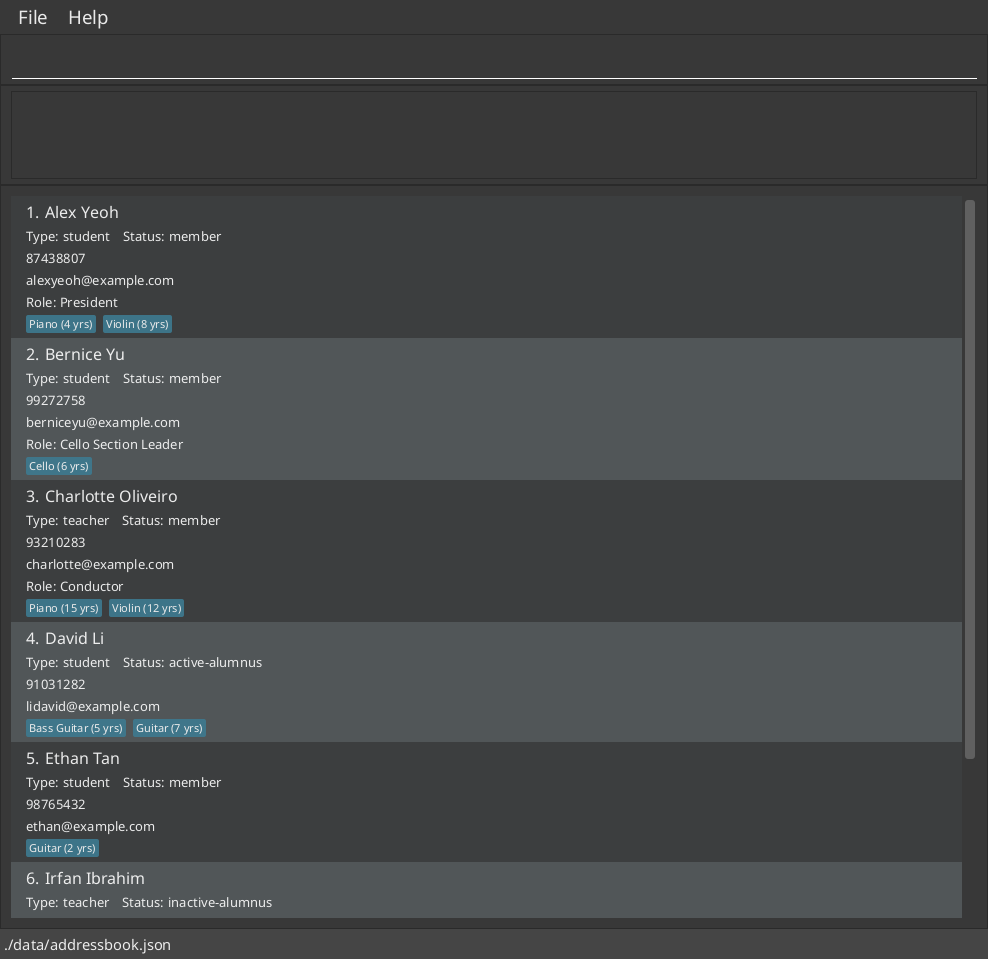
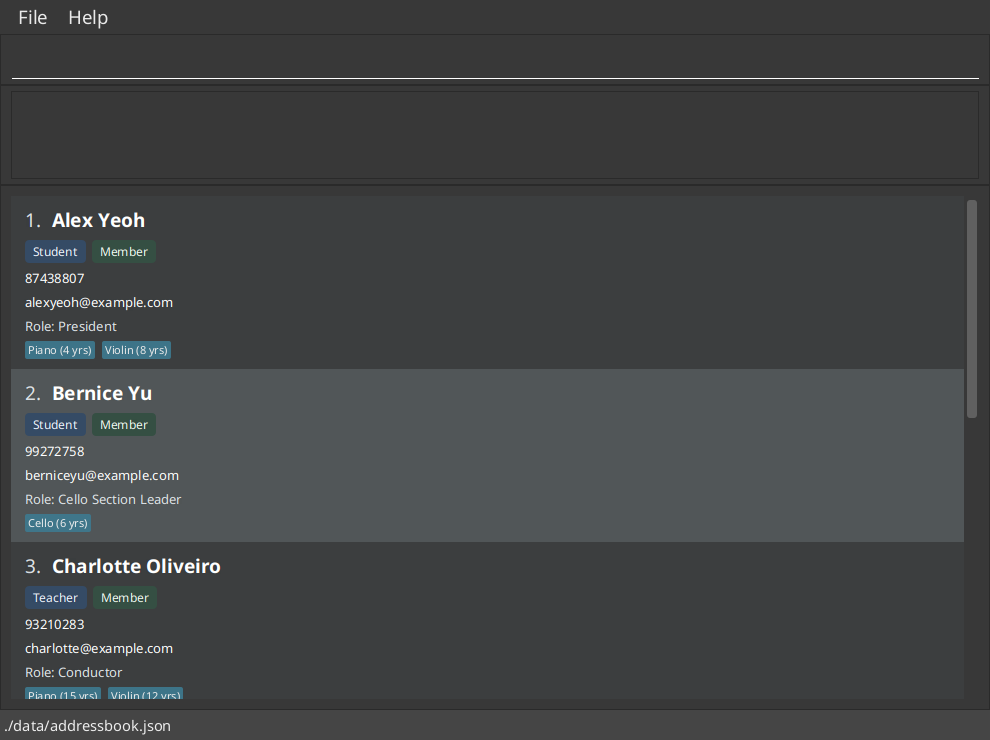
Improve member-card readability

diff --git a/src/main/resources/view/DarkTheme.css b/src/main/resources/view/DarkTheme.css
@@ -350,3 +350,49 @@
     -fx-background-radius: 2;
     -fx-font-size: 11;
 }
+
+/* Member-card hierarchy stays readable in both alternating and selected list rows. */
+.list-cell .member-name {
+    -fx-font-family: "Segoe UI Semibold";
+    -fx-font-size: 19px;
+    -fx-font-weight: bold;
+    -fx-text-fill: #ffffff;
+    -fx-opacity: 1;
+}
+
+.list-cell .member-index {
+    -fx-font-size: 19px;
+    -fx-text-fill: #e0e5e9;
+    -fx-opacity: 1;
+}
+
+.list-cell .member-contact {
+    -fx-font-family: "Segoe UI";
+    -fx-font-size: 13px;
+    -fx-text-fill: #ffffff;
+    -fx-opacity: 1;
+}
+
+.list-cell .member-detail {
+    -fx-font-family: "Segoe UI";
+    -fx-font-size: 13px;
+    -fx-text-fill: #e0e5e9;
+    -fx-opacity: 1;
+}
+
+.list-cell .member-type-badge, .list-cell .member-status-badge {
+    -fx-font-size: 12px;
+    -fx-padding: 3 8;
+    -fx-background-radius: 4;
+    -fx-opacity: 1;
+}
+
+.list-cell .member-type-badge {
+    -fx-background-color: #354b65;
+    -fx-text-fill: #eef5ff;
+}
+
+.list-cell .member-status-badge {
+    -fx-background-color: #354f43;
+    -fx-text-fill: #effbf2;
+}

diff --git a/src/test/java/seedu/address/ui/PersonCardTest.java b/src/test/java/seedu/address/ui/PersonCardTest.java
@@ -60,8 +60,8 @@ public class PersonCardTest {
             assertEquals("Alicia Tan", label(card, "name").getText());
             assertEquals("90000002", label(card, "phone").getText());
             assertEquals("alicia@example.com", label(card, "email").getText());
-            assertEquals("active-alumnus", label(card, "membershipStatus").getText());
-            assertEquals("teacher", label(card, "memberType").getText());
+            assertEquals("Active alumnus", label(card, "membershipStatus").getText());
+            assertEquals("Teacher", label(card, "memberType").getText());
             assertEquals("Role: Section Leader", label(card, "role").getText());
             assertTrue(label(card, "role").isVisible());
             assertTrue(label(card, "role").isManaged());
@@ -110,13 +110,16 @@ public class PersonCardTest {
     @Test
     public void constructor_membershipCombinations_displaysCorrectValues() throws Exception {
         runOnFxThread(() -> {
-            for (String status : List.of("member", "active-alumnus", "inactive-alumnus")) {
-                for (String memberType : List.of("student", "teacher")) {
-                    Person person = new PersonBuilder().withStatus(status).withMemberType(memberType).build();
+            String[][] statuses = {{"member", "Member"}, {"active-alumnus", "Active alumnus"},
+                {"inactive-alumnus", "Inactive alumnus"}};
+            String[][] memberTypes = {{"student", "Student"}, {"teacher", "Teacher"}};
+            for (String[] status : statuses) {
+                for (String[] memberType : memberTypes) {
+                    Person person = new PersonBuilder().withStatus(status[0]).withMemberType(memberType[0]).build();
                     PersonCard card = new PersonCard(person, 1);
 
-                    assertEquals(status, label(card, "membershipStatus").getText());
-                    assertEquals(memberType, label(card, "memberType").getText());
+                    assertEquals(status[1], label(card, "membershipStatus").getText());
+                    assertEquals(memberType[1], label(card, "memberType").getText());
                 }
             }
         });
@@ -127,7 +130,7 @@ public class PersonCardTest {
         runOnFxThread(() -> {
             String instrument = "Historical Keyboard and String Instrument Ensemble Performance Specialisation";
             String group = "University Chamber Orchestra Alumni and Student Combined Performance Group";
-            Person person = new PersonBuilder().withName("Card Width")
+            Person person = new PersonBuilder().withName("Alexandra Catherine Montgomery Music Coordinator")
                     .withEmail("music.coordinator.long.contact.address@example.com")
                     .withRole("Student Coordinator for the University Chamber Orchestra")
                     .withInstruments(instrument + ":12").withGroups(group, "X".repeat(150)).build();
@@ -142,6 +145,10 @@ public class PersonCardTest {
                 root.layout();
                 // Settle the label height after the flow pane receives its new viewport width.
                 root.layout();
+                assertLabelVisible(root, (Label) root.lookup("#name"), person.getName().fullName);
+                assertLabelVisible(root, (Label) root.lookup("#id"), "1. ");
+                assertLabelVisible(root, (Label) root.lookup("#memberType"), "Student");
+                assertLabelVisible(root, (Label) root.lookup("#membershipStatus"), "Member");
                 assertLabelVisible(root, (Label) root.lookup("#instruments .label"), instrument + " (12 yrs)");
                 assertLabelVisible(root, (Label) root.lookup("#email"), person.getEmail().value);
                 assertLabelVisible(root, (Label) root.lookup("#role"), "Role: " + person.getRole().orElseThrow().value);

diff --git a/src/main/java/seedu/address/ui/PersonCard.java b/src/main/java/seedu/address/ui/PersonCard.java
@@ -68,8 +68,8 @@ public class PersonCard extends UiPart<Region> {
         name.setText(person.getName().fullName);
         phone.setText(person.getPhone().value);
         email.setText(person.getEmail().value);
-        membershipStatus.setText(person.getStatus().toString());
-        memberType.setText(person.getMemberType().toString());
+        membershipStatus.setText(toDisplayText(person.getStatus().toString()));
+        memberType.setText(toDisplayText(person.getMemberType().toString()));
 
         boolean hasRole = person.getRole().isPresent();
         role.setText(person.getRole()
@@ -92,6 +92,14 @@ public class PersonCard extends UiPart<Region> {
                 .forEach(group -> addWrappingLabel(groupLabels, group.getName()));
         groups.setVisible(hasGroups);
         groups.setManaged(hasGroups);
+    }
+
+    /**
+     * Returns a readable label for a validated membership keyword without changing its stored value.
+     */
+    private static String toDisplayText(String keyword) {
+        String words = keyword.replace('-', ' ');
+        return Character.toUpperCase(words.charAt(0)) + words.substring(1);
     }
 
     /**

diff --git a/docs/DeveloperGuide.md b/docs/DeveloperGuide.md
@@ -87,7 +87,7 @@ The `UI` component,
 
 `PersonListPanel` observes the filtered and sorted person view exposed by `Logic`. Its list cells create a `PersonCard` for each displayed person, passing the cell's one-based index. When `find`, `filter`, `sort`, or `list` changes the displayed results, the list updates the cards and their indices. The existing UI class diagram shows this relationship; the card enhancement adds no new classes or dependencies.
 
-`PersonCard` loads `PersonListCard.fxml` through `UiPart`. The FXML `fx:id` attributes match the controller's `@FXML` fields. The constructor reads the person's public getters to populate the name, contact details, membership status, member type, optional role, and instruments. Type and status use the model's keyword strings. Instrument labels use `Instrument.toDisplayString()` and are sorted by name, ignoring case.
+`PersonCard` loads `PersonListCard.fxml` through `UiPart`. The FXML `fx:id` attributes match the controller's `@FXML` fields. The constructor reads the person's public getters to populate the name, contact details, membership status, member type, optional role, and instruments. Type and status appear as text badges. `PersonCard.toDisplayText` capitalises the first character and replaces keyword hyphens with spaces for display (for example, `active-alumnus` becomes `Active alumnus`); model values, command keywords and storage remain unchanged. Card-specific styles in `DarkTheme.css` distinguish the name heading, contact details, secondary information and badges without changing the rest of the theme. Instrument labels use `Instrument.toDisplayString()` and are sorted by name, ignoring case.
 
 When no role is recorded, the role label has both `visible` and `managed` set to `false`: it is hidden and does not reserve layout space. Name, contact, and role labels allow text wrapping, while flow panes allow the membership details and instrument labels to move onto additional rows as space narrows. These changes affect presentation only; the model and stored records are unchanged.
 
@@ -674,13 +674,13 @@ Use a disposable directory for these checks so the test records do not affect yo
 1. Add a member with all fields: `add n/Alicia Tan p/90000002 e/alicia@example.com s/member ty/student r/Section Leader i/Violin:1 i/Piano:5`.<br>
    Expected: The card shows name, phone, email, type, status, role, and instruments. Piano appears before Violin, with `5 yrs` and `1 yr` respectively.
 1. Add a member without optional fields: `add n/Jamie Koh p/90000001 e/jamie@example.com s/member`.<br>
-   Expected: Type is `student`; there is no role line or instrument label, and no blank role row.
+   Expected: The type badge reads `Student`; there is no role line or instrument label, and no blank role row.
 1. Add a teacher/alumnus: `add n/Marcus Lee p/90000003 e/marcus@example.com s/active-alumnus ty/teacher r/Conductor i/Cello:20`.<br>
-   Expected: Type is `teacher`, status is `active-alumnus`, and the role and instrument are visible.
+   Expected: The badges read `Teacher` and `Active alumnus`, and the role and instrument are visible.
 1. Run `find alicia marcus`, then `filter i/Piano`, then `find zzznomatch`, then `list`.<br>
    Expected: Each result shows the appropriate members with complete card details and indices starting at `1`; the no-match search shows no cards; `list` restores all members in insertion order.
 1. Add a member with a long name, email and role, and several instruments. Resize the window narrower and scroll through the list.<br>
-   Expected: Text wraps without overlapping other fields, instrument labels flow onto additional rows, and all recorded details remain accessible. Check both full and empty optional fields again after scrolling.
+   Expected: The name remains prominent and the membership badges remain readable without relying on colour. Text wraps without overlapping other fields, instrument labels flow onto additional rows, and all recorded details remain accessible. Check both full and empty optional fields again after scrolling.
 1. Run `add n/Card Width p/91234567 e/music.coordinator.long.contact.address@example.com s/member r/Student Coordinator for the University Chamber Orchestra i/Historical Keyboard and String Instrument Ensemble Performance Specialisation:12 g/University Chamber Orchestra Alumni and Student Combined Performance Group`. Resize the window to its minimum 450 × 600, then widen and narrow it again.<br>
    Expected: The full instrument name and `12 yrs` remain readable on wrapped lines, as does the group name. Neither badge pushes contact details or other card content beyond the visible right edge. Scroll vertically if the card is taller than the available area.
 

diff --git a/docs/UserGuide.md b/docs/UserGuide.md
@@ -157,12 +157,14 @@ Format: `list`
 
 Each member card displays:
 
-* The member's displayed index and name.
-* Member type (`student` or `teacher`) and membership status (`member`, `active-alumnus`, or `inactive-alumnus`).
+* The member's displayed index and name in a prominent heading.
+* Text badges for member type (`Student` or `Teacher`) and membership status (`Member`, `Active alumnus`, or `Inactive alumnus`). The text identifies each value without relying on colour; command inputs still use the keywords listed under `add`.
 * Phone number and email address.
 * A `Role:` line when a role is recorded. No role line is shown when it is absent.
 * Recorded instruments and their years of experience, sorted alphabetically by instrument name, ignoring case. For example, `Piano (5 yrs)` and `Violin (1 yr)`. No instrument labels appear when none are recorded.
 * A `Groups:` heading with one badge per participation group, ordered alphabetically ignoring case. No groups section is shown when none are recorded.
+
+Long names, contact details, roles, instruments and groups wrap as the window narrows. Scroll down to see details or members below the visible area.
 
 The same card details are shown in `find` and `filter` results. Displayed indices start at `1` and refer to the current list, so a member's index may change after a search, filter or sort. Use the current displayed index for commands such as `edit` and `delete`.
 
